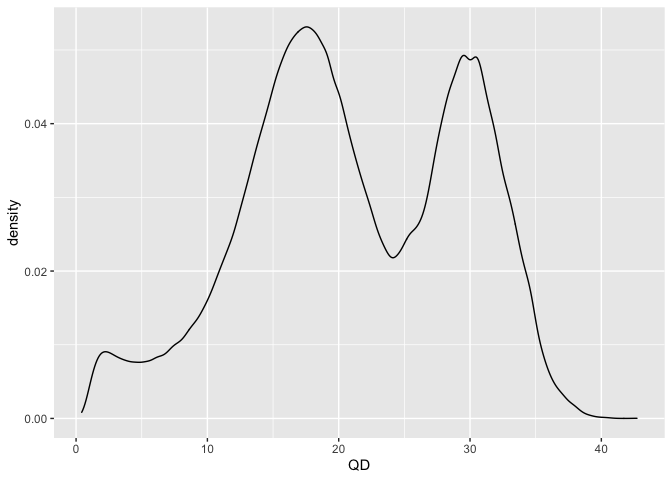
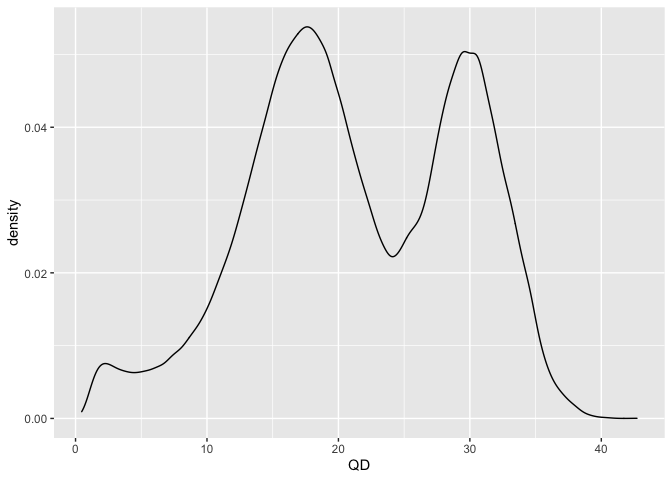
second commit

diff --git a/README.md b/README.md
@@ -17,7 +17,7 @@ commands into R console:
 
 ``` r
 library(devtools)
-devtools::install_github("avramaral/GPcov", build_vignettes = TRUE)
+devtools::install_github("Hatoonli/vcfqc", build_vignettes = TRUE)
 ```
 
 ## Example
@@ -30,9 +30,9 @@ QD(system.file("extdata", "HG001_GRCh38.table", package = "vcfqc"))
 #> All variants are annotated with QD score
 #> 
 #>    Min. 1st Qu.  Median    Mean 3rd Qu.    Max. 
-#>    0.43   15.41   20.42   21.21   28.66   42.71 
+#>    0.47   15.69   20.67   21.49   28.79   42.71 
 #> 
-#> Number of variants with a QD score lower than 2: 41225
+#> Number of variants with a QD score lower than 2: 12031
 #> 
 #> Expected plot: 
 #> __________________________________________________________
